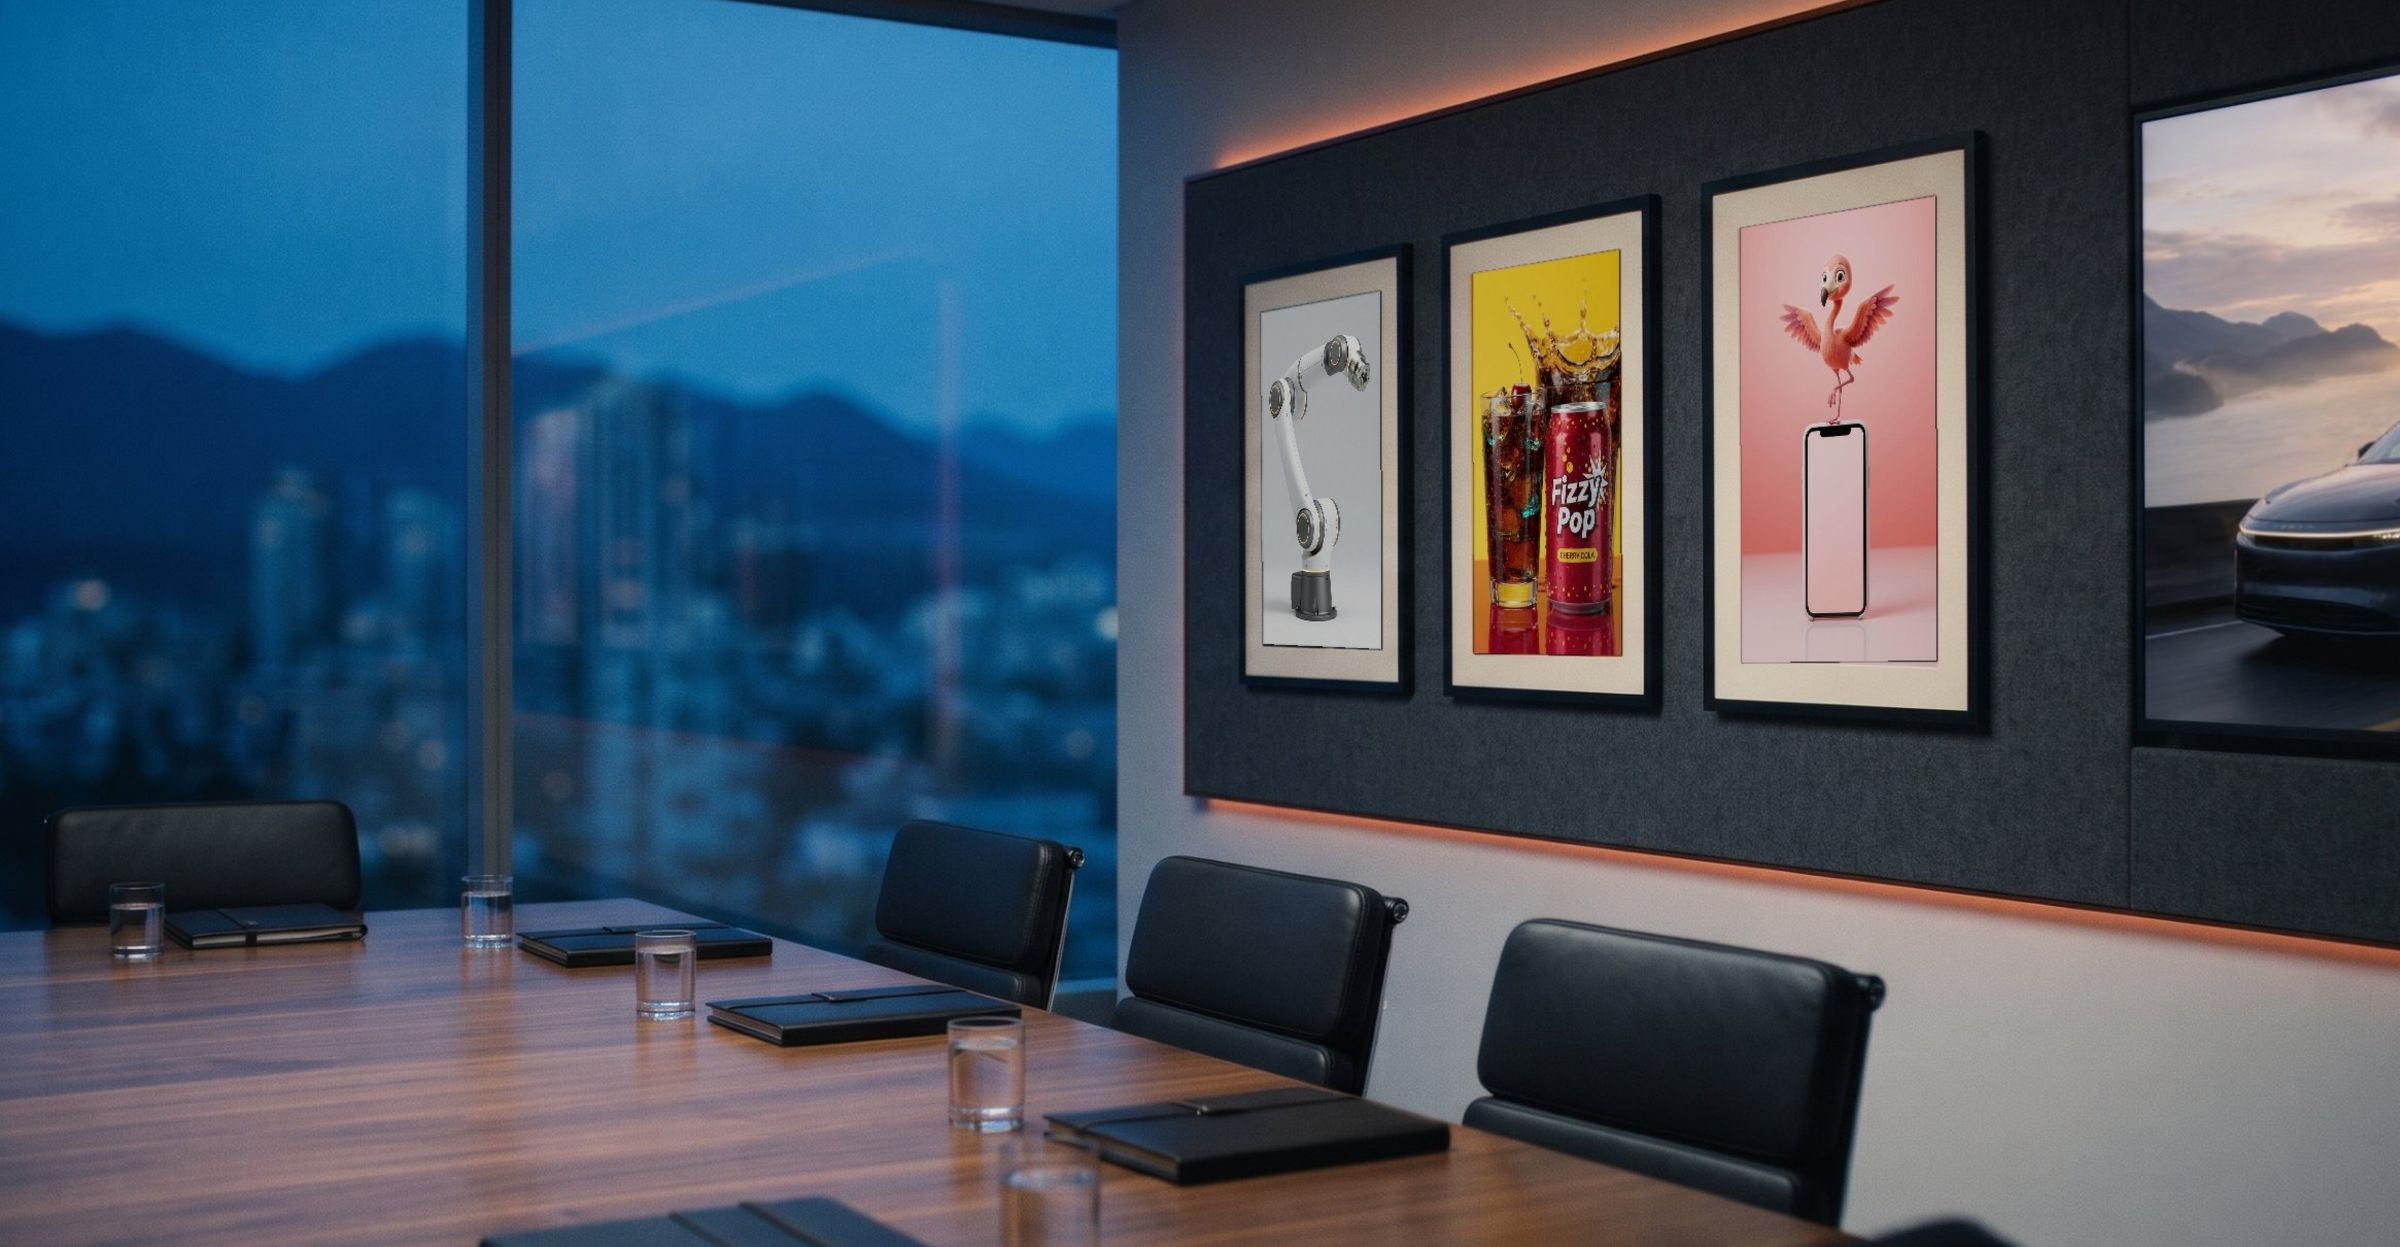
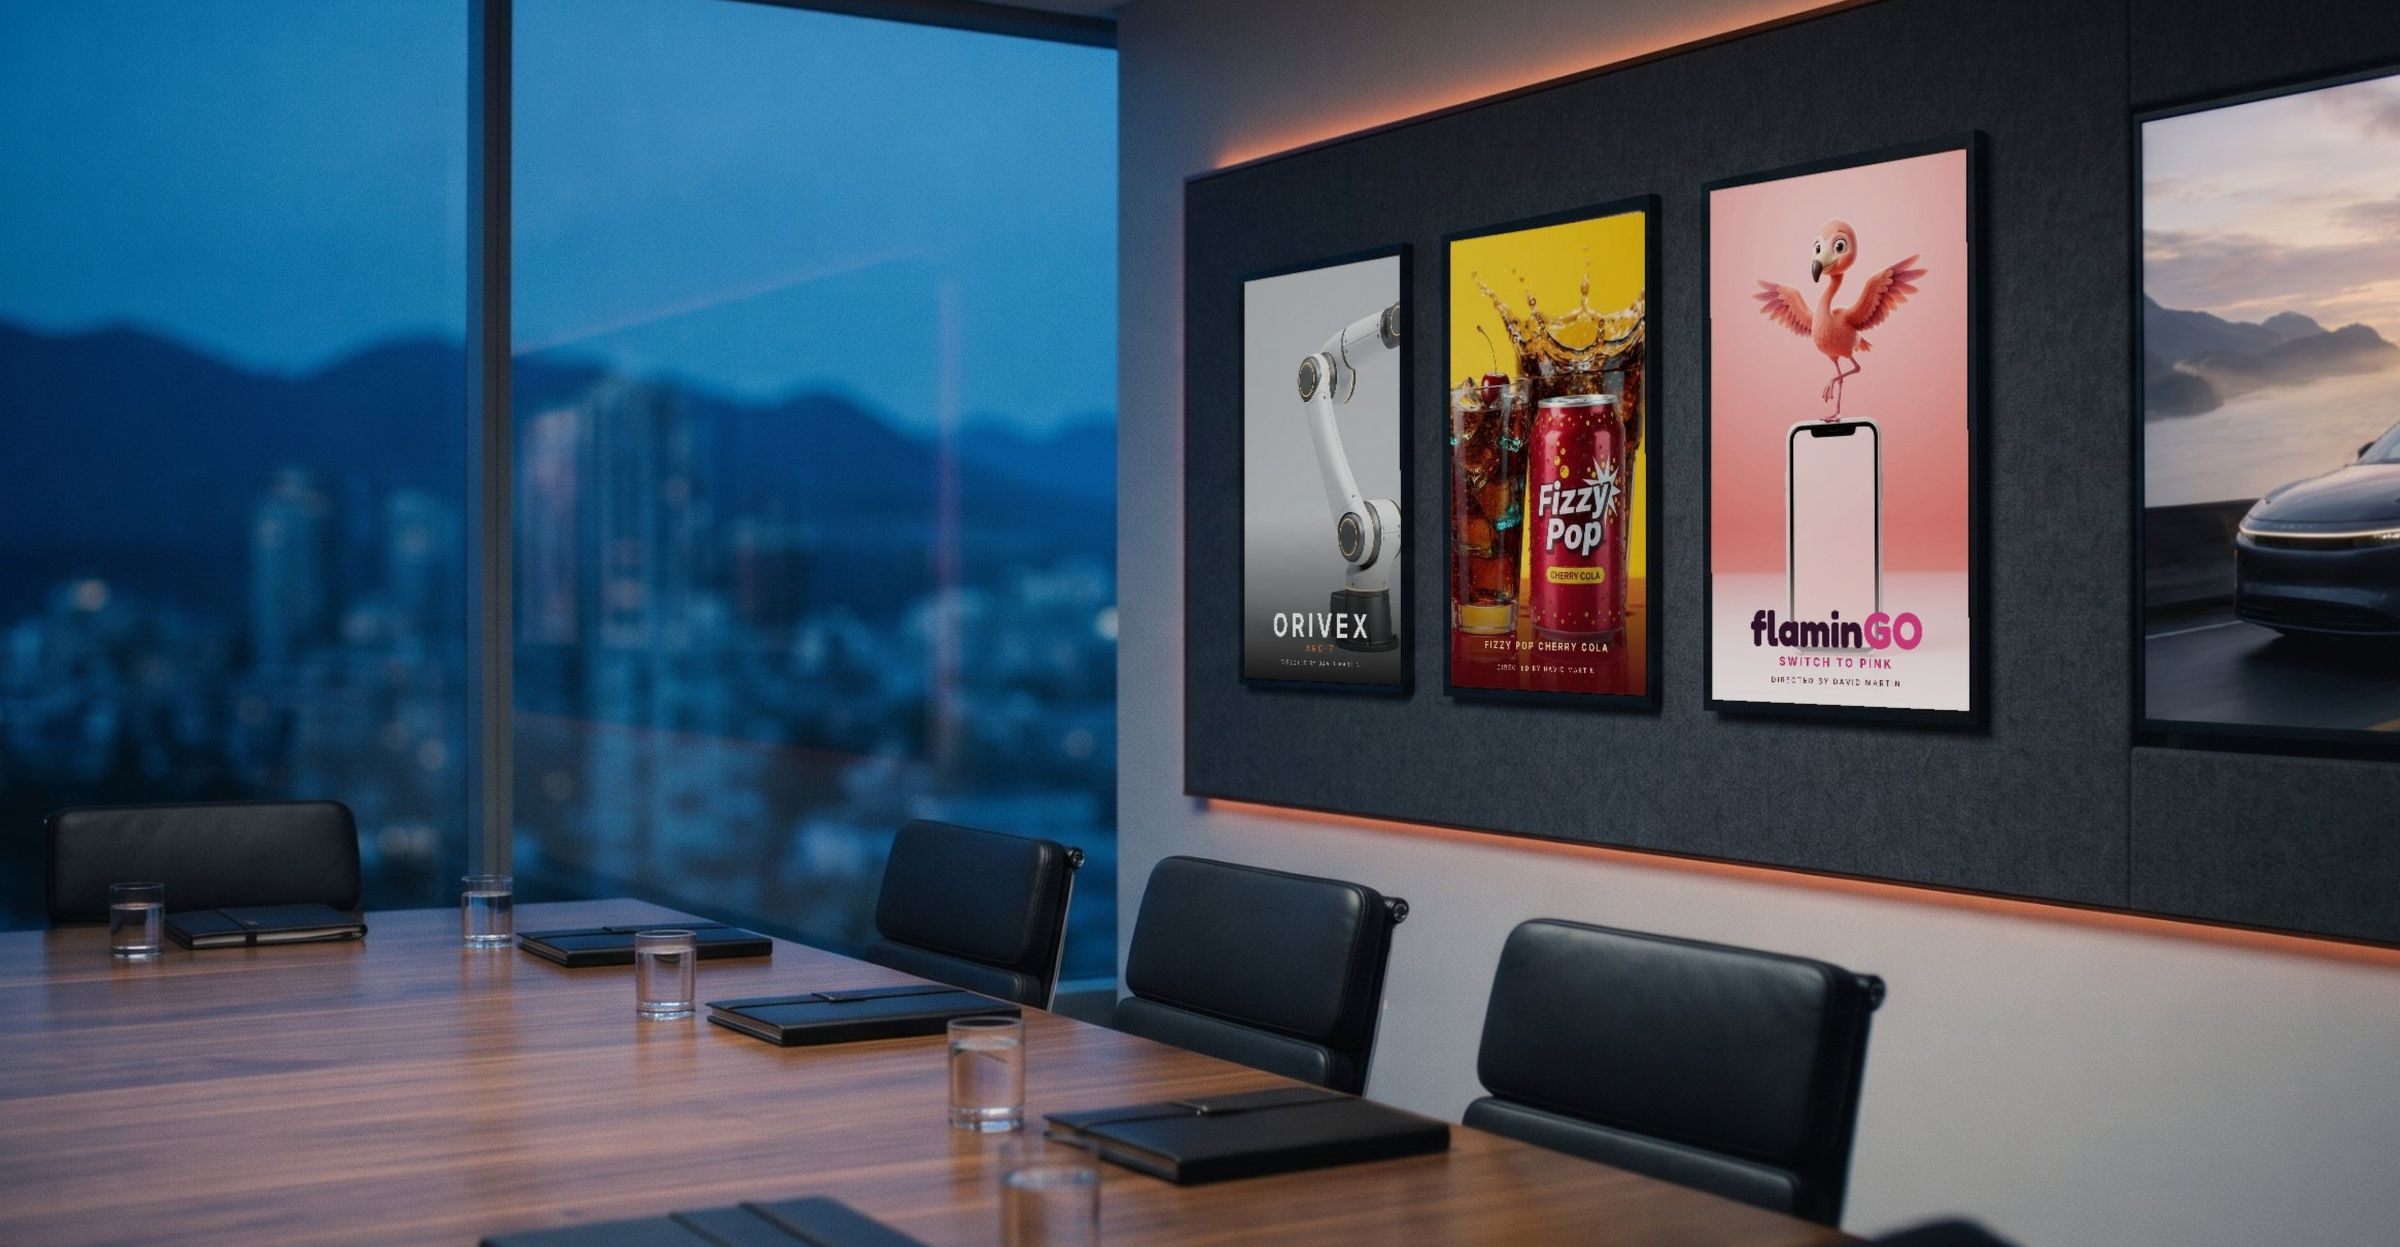
Home hero: titled posters back in the frames
Claude-Session: https://claude.ai/code/session_016tvzwU3cz4MoTCXz6b5jFJ

Changed region(s): [[0.5, 0.1219, 0.8438, 0.579]]

diff --git a/public/index.html b/public/index.html
@@ -1,5 +1,5 @@
 <!doctype html><html lang="en"><head><meta charset="utf-8"><meta name="viewport" content="width=device-width, initial-scale=1, viewport-fit=cover"><title>David Martin | Creative Professional</title><meta name="description" content="Creative Director with a video and visual-content specialty. I create and direct video, visual content, campaigns and digital experiences, combining creative direction with hands-on production and emerging AI technology."><link rel="canonical" href="https://studio.madebydavidmartin.com/"><meta name="theme-color" content="#231A10"><meta name="author" content="David Martin"><meta property="og:type" content="website"><meta property="og:site_name" content="David Martin, Creative Professional"><meta property="og:title" content="David Martin | Creative Professional"><meta property="og:description" content="Creative Director with a video and visual-content specialty. I create and direct video, visual content, campaigns and digital experiences, combining creative direction with hands-on production and emerging AI technology."><meta property="og:url" content="https://studio.madebydavidmartin.com/"><meta property="og:image" content="https://studio.madebydavidmartin.com/img/og-card.jpg?v=2"><meta property="og:image:width" content="1200"><meta property="og:image:height" content="630"><meta name="twitter:card" content="summary_large_image"><meta name="twitter:image" content="https://studio.madebydavidmartin.com/img/og-card.jpg?v=2"><link rel="icon" href="favicon.svg" type="image/svg+xml"><link rel="icon" href="favicon.ico" sizes="any"><link rel="apple-touch-icon" href="apple-touch-icon.png"><link rel="preconnect" href="https://fonts.googleapis.com"><link rel="preconnect" href="https://fonts.gstatic.com" crossorigin><link rel="stylesheet" href="https://fonts.googleapis.com/css2?family=Cormorant+Garamond:wght@300&family=IBM+Plex+Mono:wght@400;500&family=Caveat:wght@600&family=Geist:wght@400;500;600;700&family=Geist+Mono:wght@400;500&display=swap"><link rel="stylesheet" href="https://api.fontshare.com/v2/css?f[]=clash-display@600,700&display=swap">
-<link rel="preload" as="image" href="img/hero-banner.jpg?v=11" fetchpriority="high">
+<link rel="preload" as="image" href="img/hero-banner.jpg?v=12" fetchpriority="high">
 <link rel="stylesheet" href="styles.css?v=c1032"><style>body{margin:0}
 .flag-card{display:grid;grid-template-columns:minmax(240px,400px) 1fr;gap:28px;align-items:center;background:var(--card);border:1px solid var(--line);border-radius:0;overflow:hidden;color:var(--ink);margin:26px 0 4px}
 .flag-card video{width:100%;height:100%;object-fit:cover;display:block;aspect-ratio:16/9;background:#000}
@@ -116,7 +116,7 @@
 .cine{position:relative;isolation:isolate;--hero-photo-o:1}
 .cine{background:#E7D6B4;box-shadow:0 0 0 100vmax #E7D6B4}
 main .cine::after{background:linear-gradient(90deg,rgba(8,8,10,.74),rgba(8,8,10,.22) 55%,rgba(8,8,10,0) 80%)} /* Oct 2026: retire old hero-home.jpg now that hero-edit-suite.jpg is the hero background */
-.cine::before{content:"";position:absolute;top:0;bottom:0;left:50%;transform:translateX(-50%);width:100vw;z-index:0;pointer-events:none;opacity:0;animation:cineBgIn 1.8s ease .15s forwards;background:url("img/hero-banner.jpg?v=11") center 62%/cover no-repeat}
+.cine::before{content:"";position:absolute;top:0;bottom:0;left:50%;transform:translateX(-50%);width:100vw;z-index:0;pointer-events:none;opacity:0;animation:cineBgIn 1.8s ease .15s forwards;background:url("img/hero-banner.jpg?v=12") center 62%/cover no-repeat}
 .cine-in{position:relative;z-index:1}
 @keyframes cineBgIn{from{opacity:0}to{opacity:var(--hero-photo-o,.8)}}
 @media (prefers-reduced-motion:reduce){.cine::before{animation:none;opacity:var(--hero-photo-o,.8)}}
